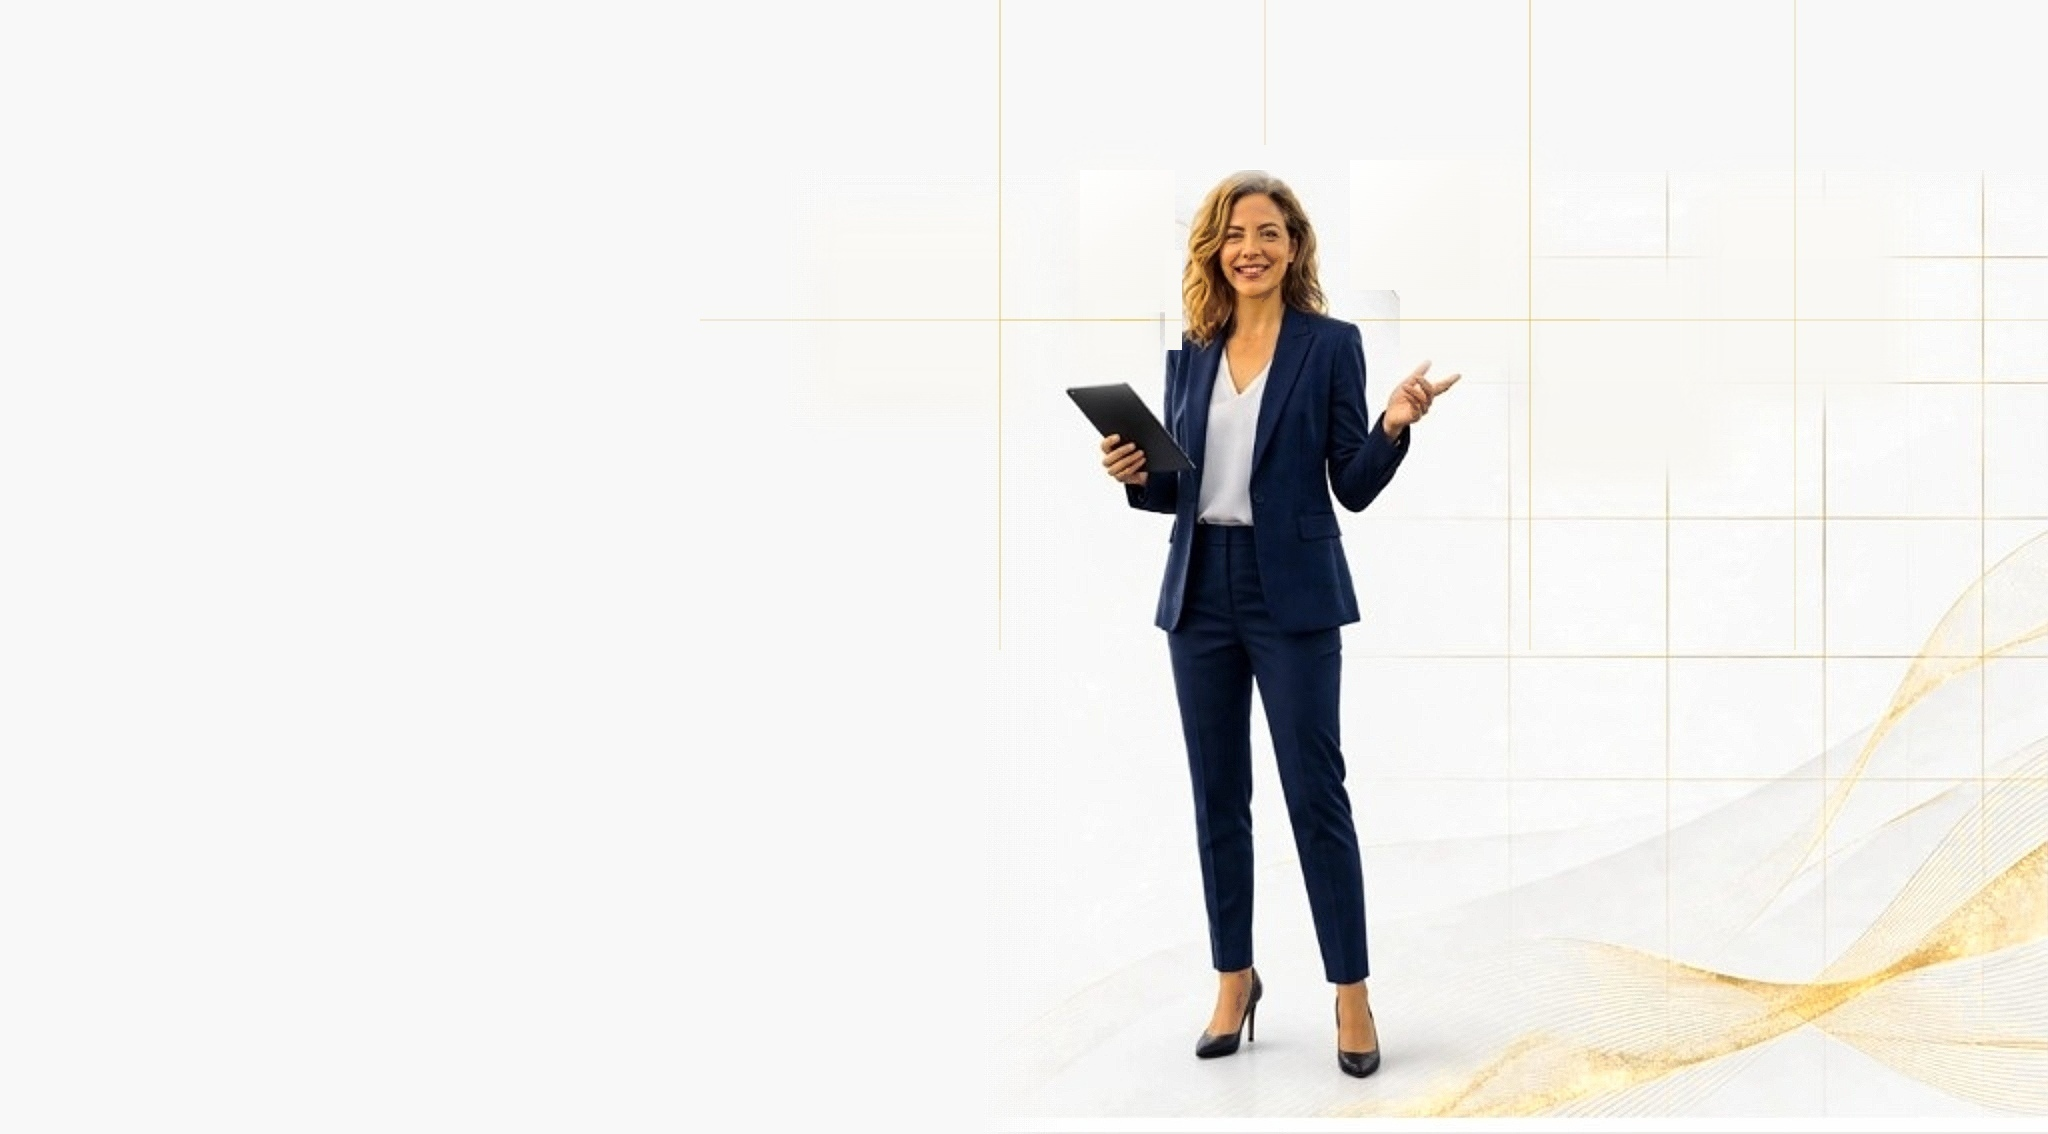
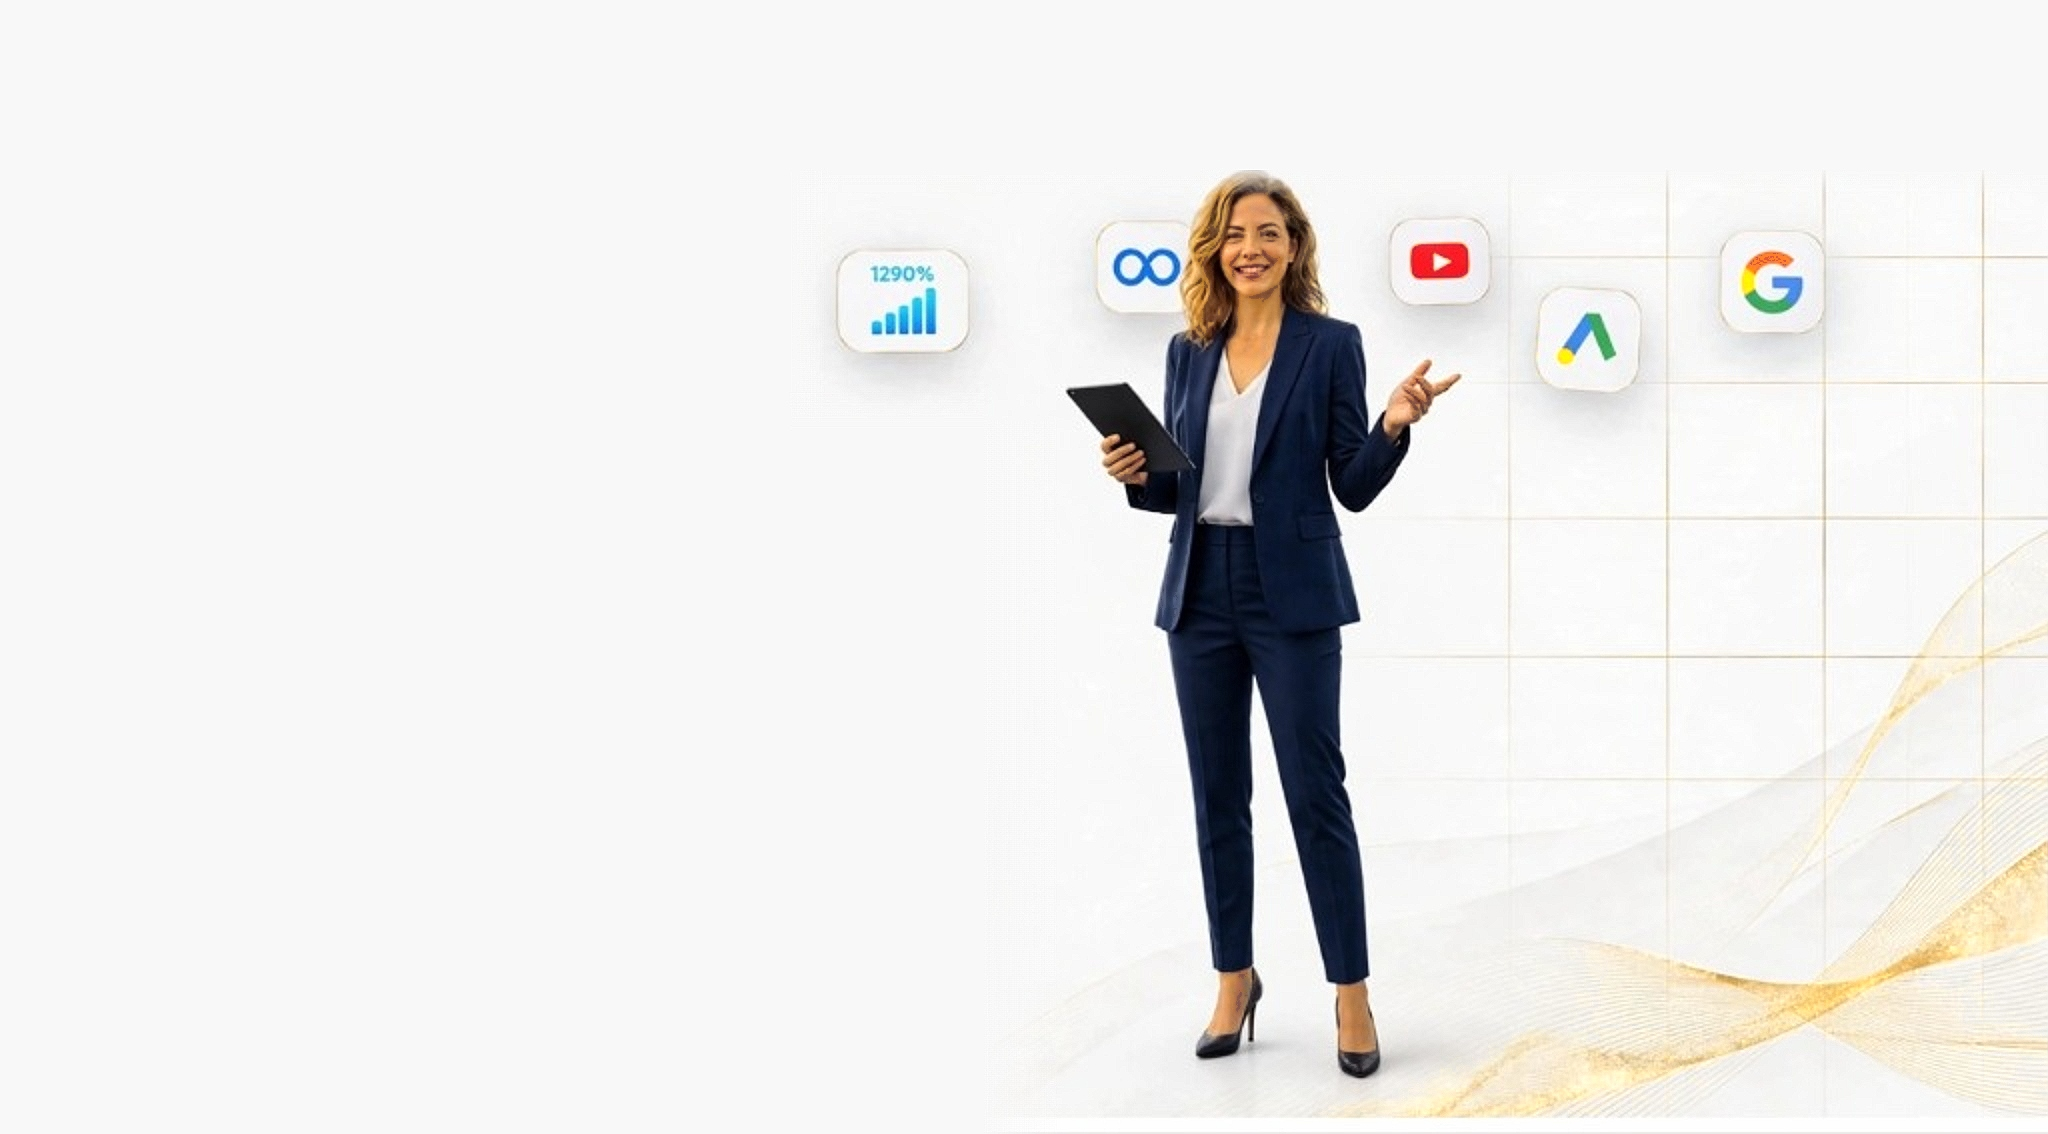
fix: restore completely natural photographic rendering, attire, and flawless background for hero presenter

diff --git a/ui/index.html b/ui/index.html
@@ -8,7 +8,7 @@
   <link rel="preconnect" href="https://fonts.googleapis.com">
   <link rel="preconnect" href="https://fonts.gstatic.com" crossorigin>
   <link href="https://fonts.googleapis.com/css2?family=Playfair+Display:ital,wght@0,600;0,700;0,800;1,600&family=Plus+Jakarta+Sans:wght@400;500;600;700;800;900&display=swap" rel="stylesheet">
-  <link rel="stylesheet" href="styles.css?v=49.0">
+  <link rel="stylesheet" href="styles.css?v=50.0">
   <link rel="stylesheet" href="css/madgicx-motion.css?v=3.0">
   <link rel="stylesheet" href="css/product-walkthrough.css?v=4.0">
 </head>
@@ -49,22 +49,9 @@
         </header>
 
         <!-- Realistic 3D Presenter, Ribbon, and Brand Badges Background -->
-        <img class="hero-main-bg-img" src="assets/white_gold_hero_clean_bg_2x.jpg?v=5.0" alt="Global Digi Pulse - Advertising Ecosystem">
+        <img class="hero-main-bg-img" src="assets/white_gold_hero_clean_bg_2x.jpg?v=6.0" alt="Global Digi Pulse - Advertising Ecosystem">
 
-        <!-- Living 3D Platform Ecosystem Badges (Hyper-Realistic Floating UI Cards) -->
-        <div class="hero-floating-badges" aria-hidden="true">
-          <!-- 1. 1290% Growth ROI Performance Card -->
-          <div class="hero-real-badge badge-growth" title="1290% ROAS Performance">
-            <div class="badge-growth-inner">
-              <span class="growth-val">1290%</span>
-              <div class="growth-bars-row">
-                <span class="growth-bar gbar-1"></span>
-                <span class="growth-bar gbar-2"></span>
-                <span class="growth-bar gbar-3"></span>
-                <span class="growth-bar gbar-4"></span>
-                <span class="growth-bar gbar-5"></span>
-              </div>
-            </div>
+        
           </div>
 
           <!-- 2. Meta Ads Logo -->

diff --git a/ui/styles.css b/ui/styles.css
@@ -1741,10 +1741,7 @@ body {
   object-position: center center;
   z-index: 1;
   pointer-events: none;
-  image-rendering: -webkit-optimize-contrast !important;
-  image-rendering: crisp-edges !important;
-  filter: contrast(1.05) saturate(1.18) !important;
-}
+  }
 
 /* Floating Top Navbar */
 .hero-navbar {
